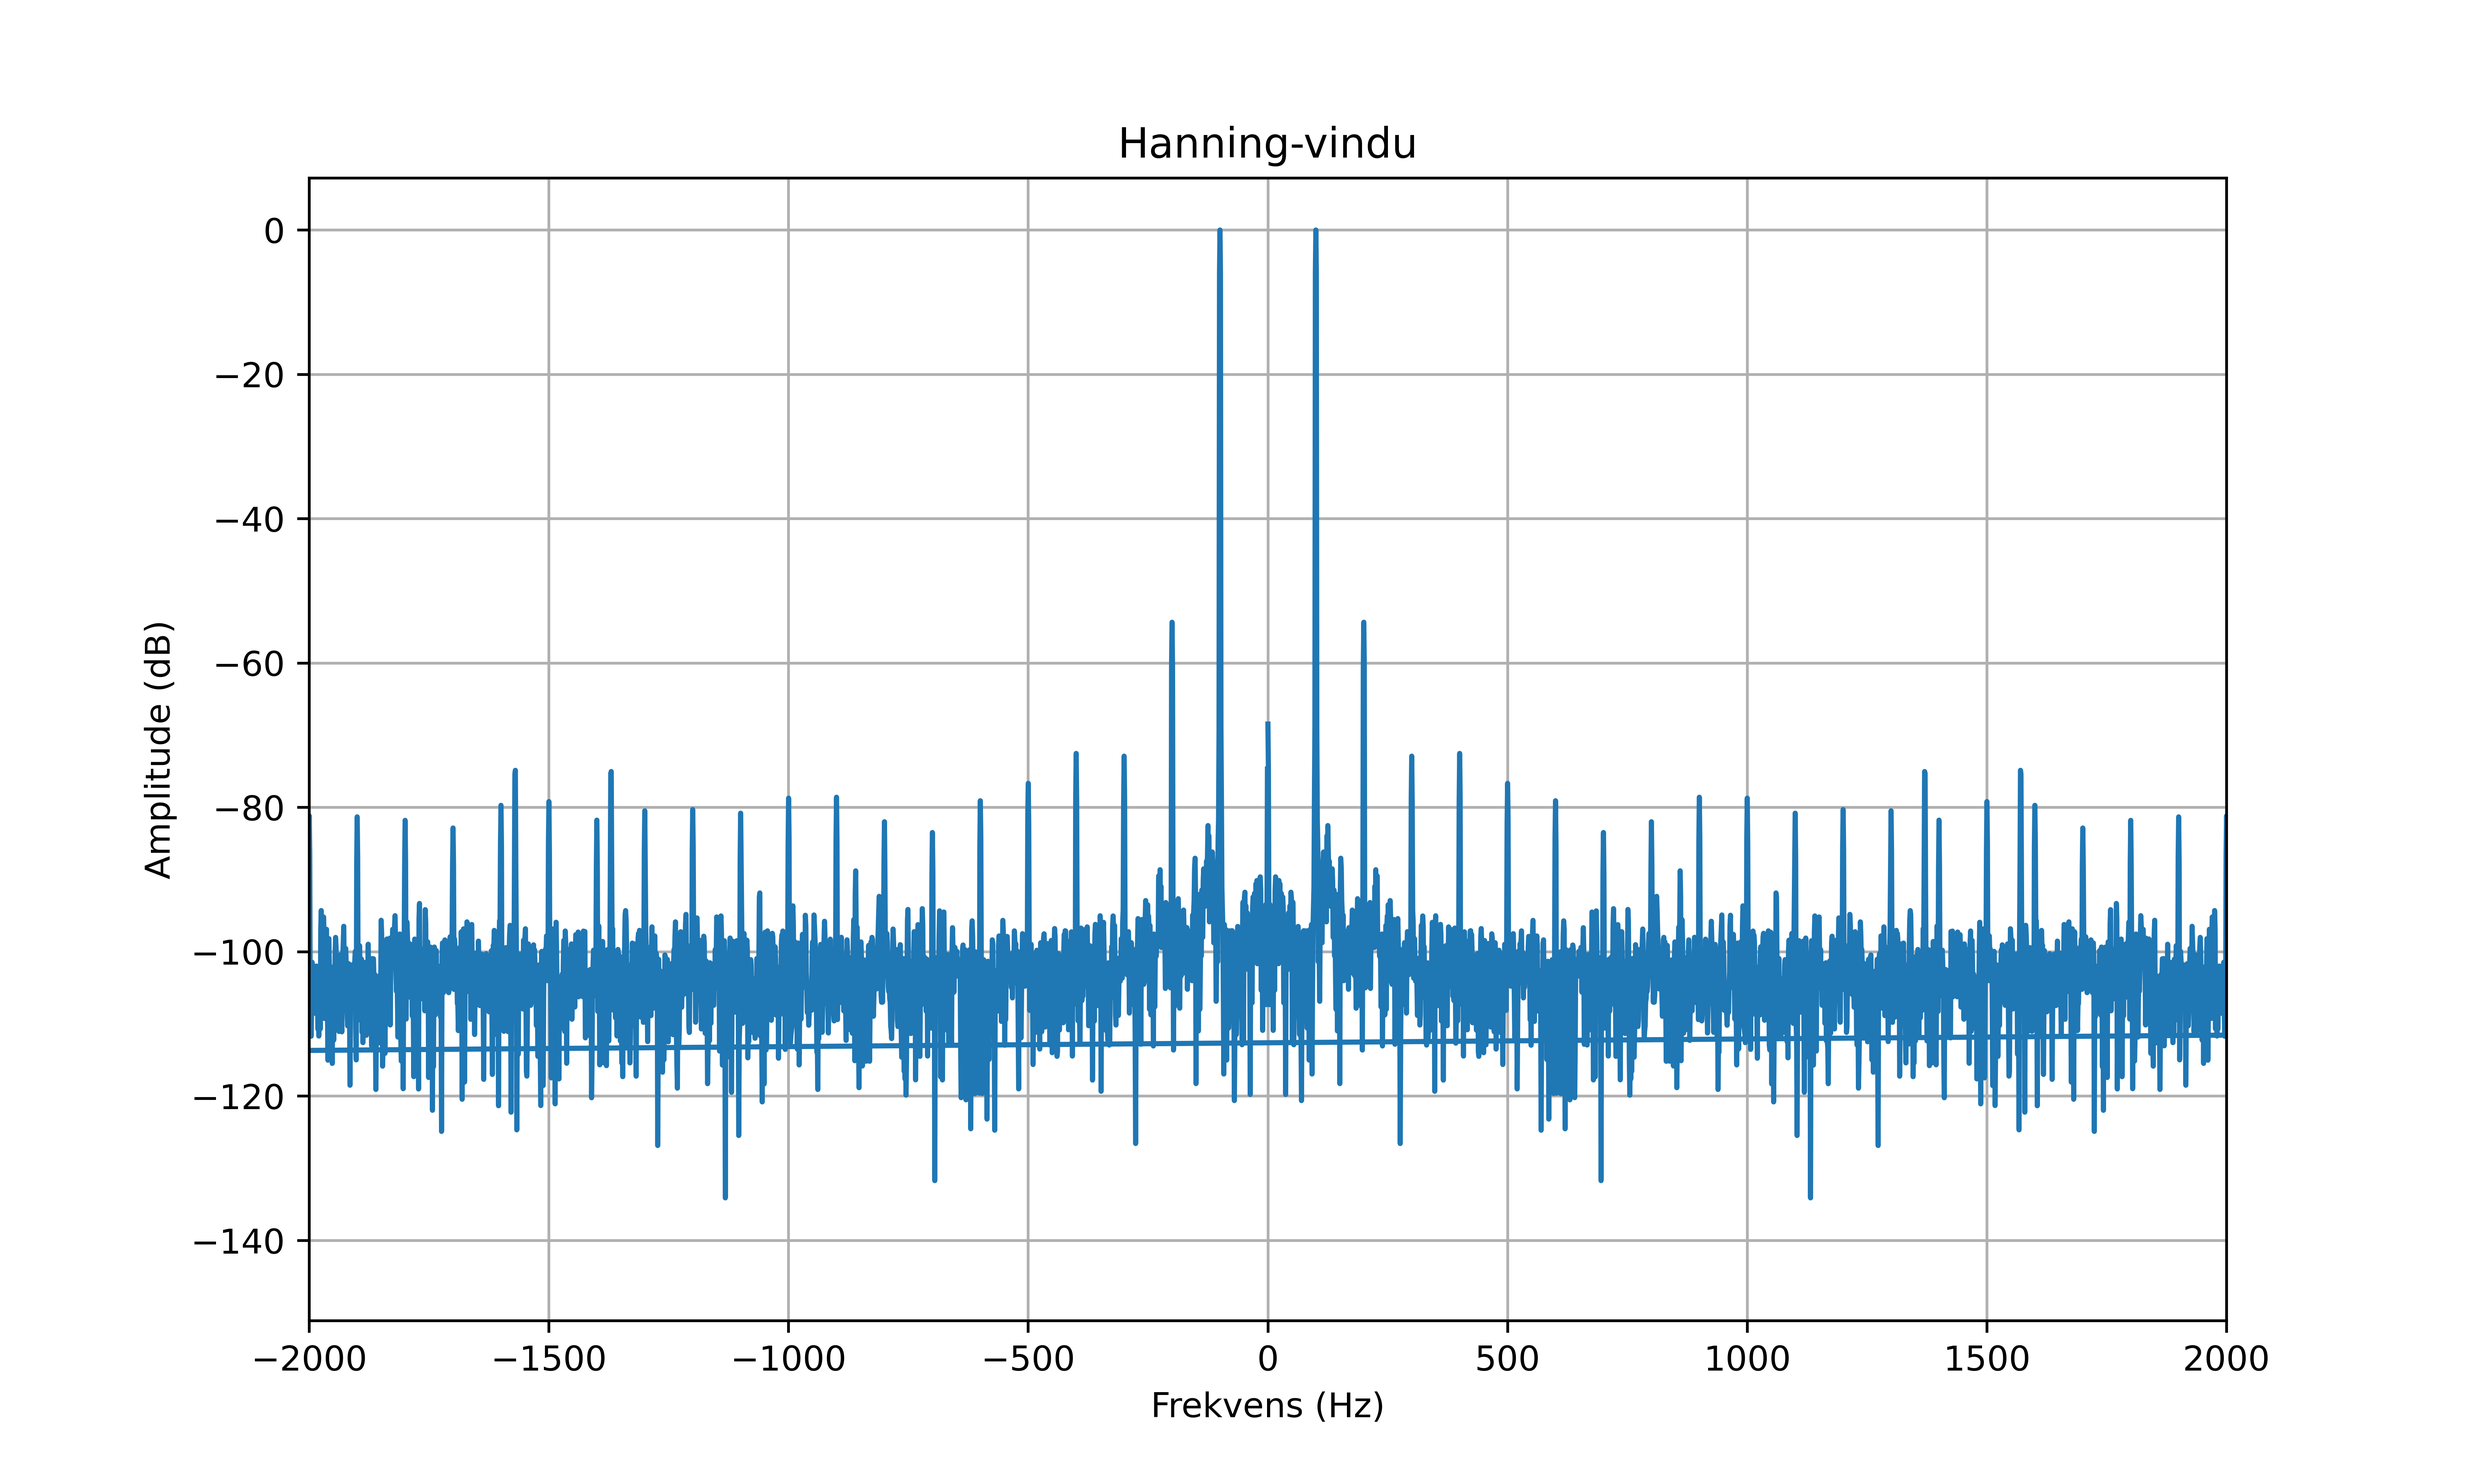
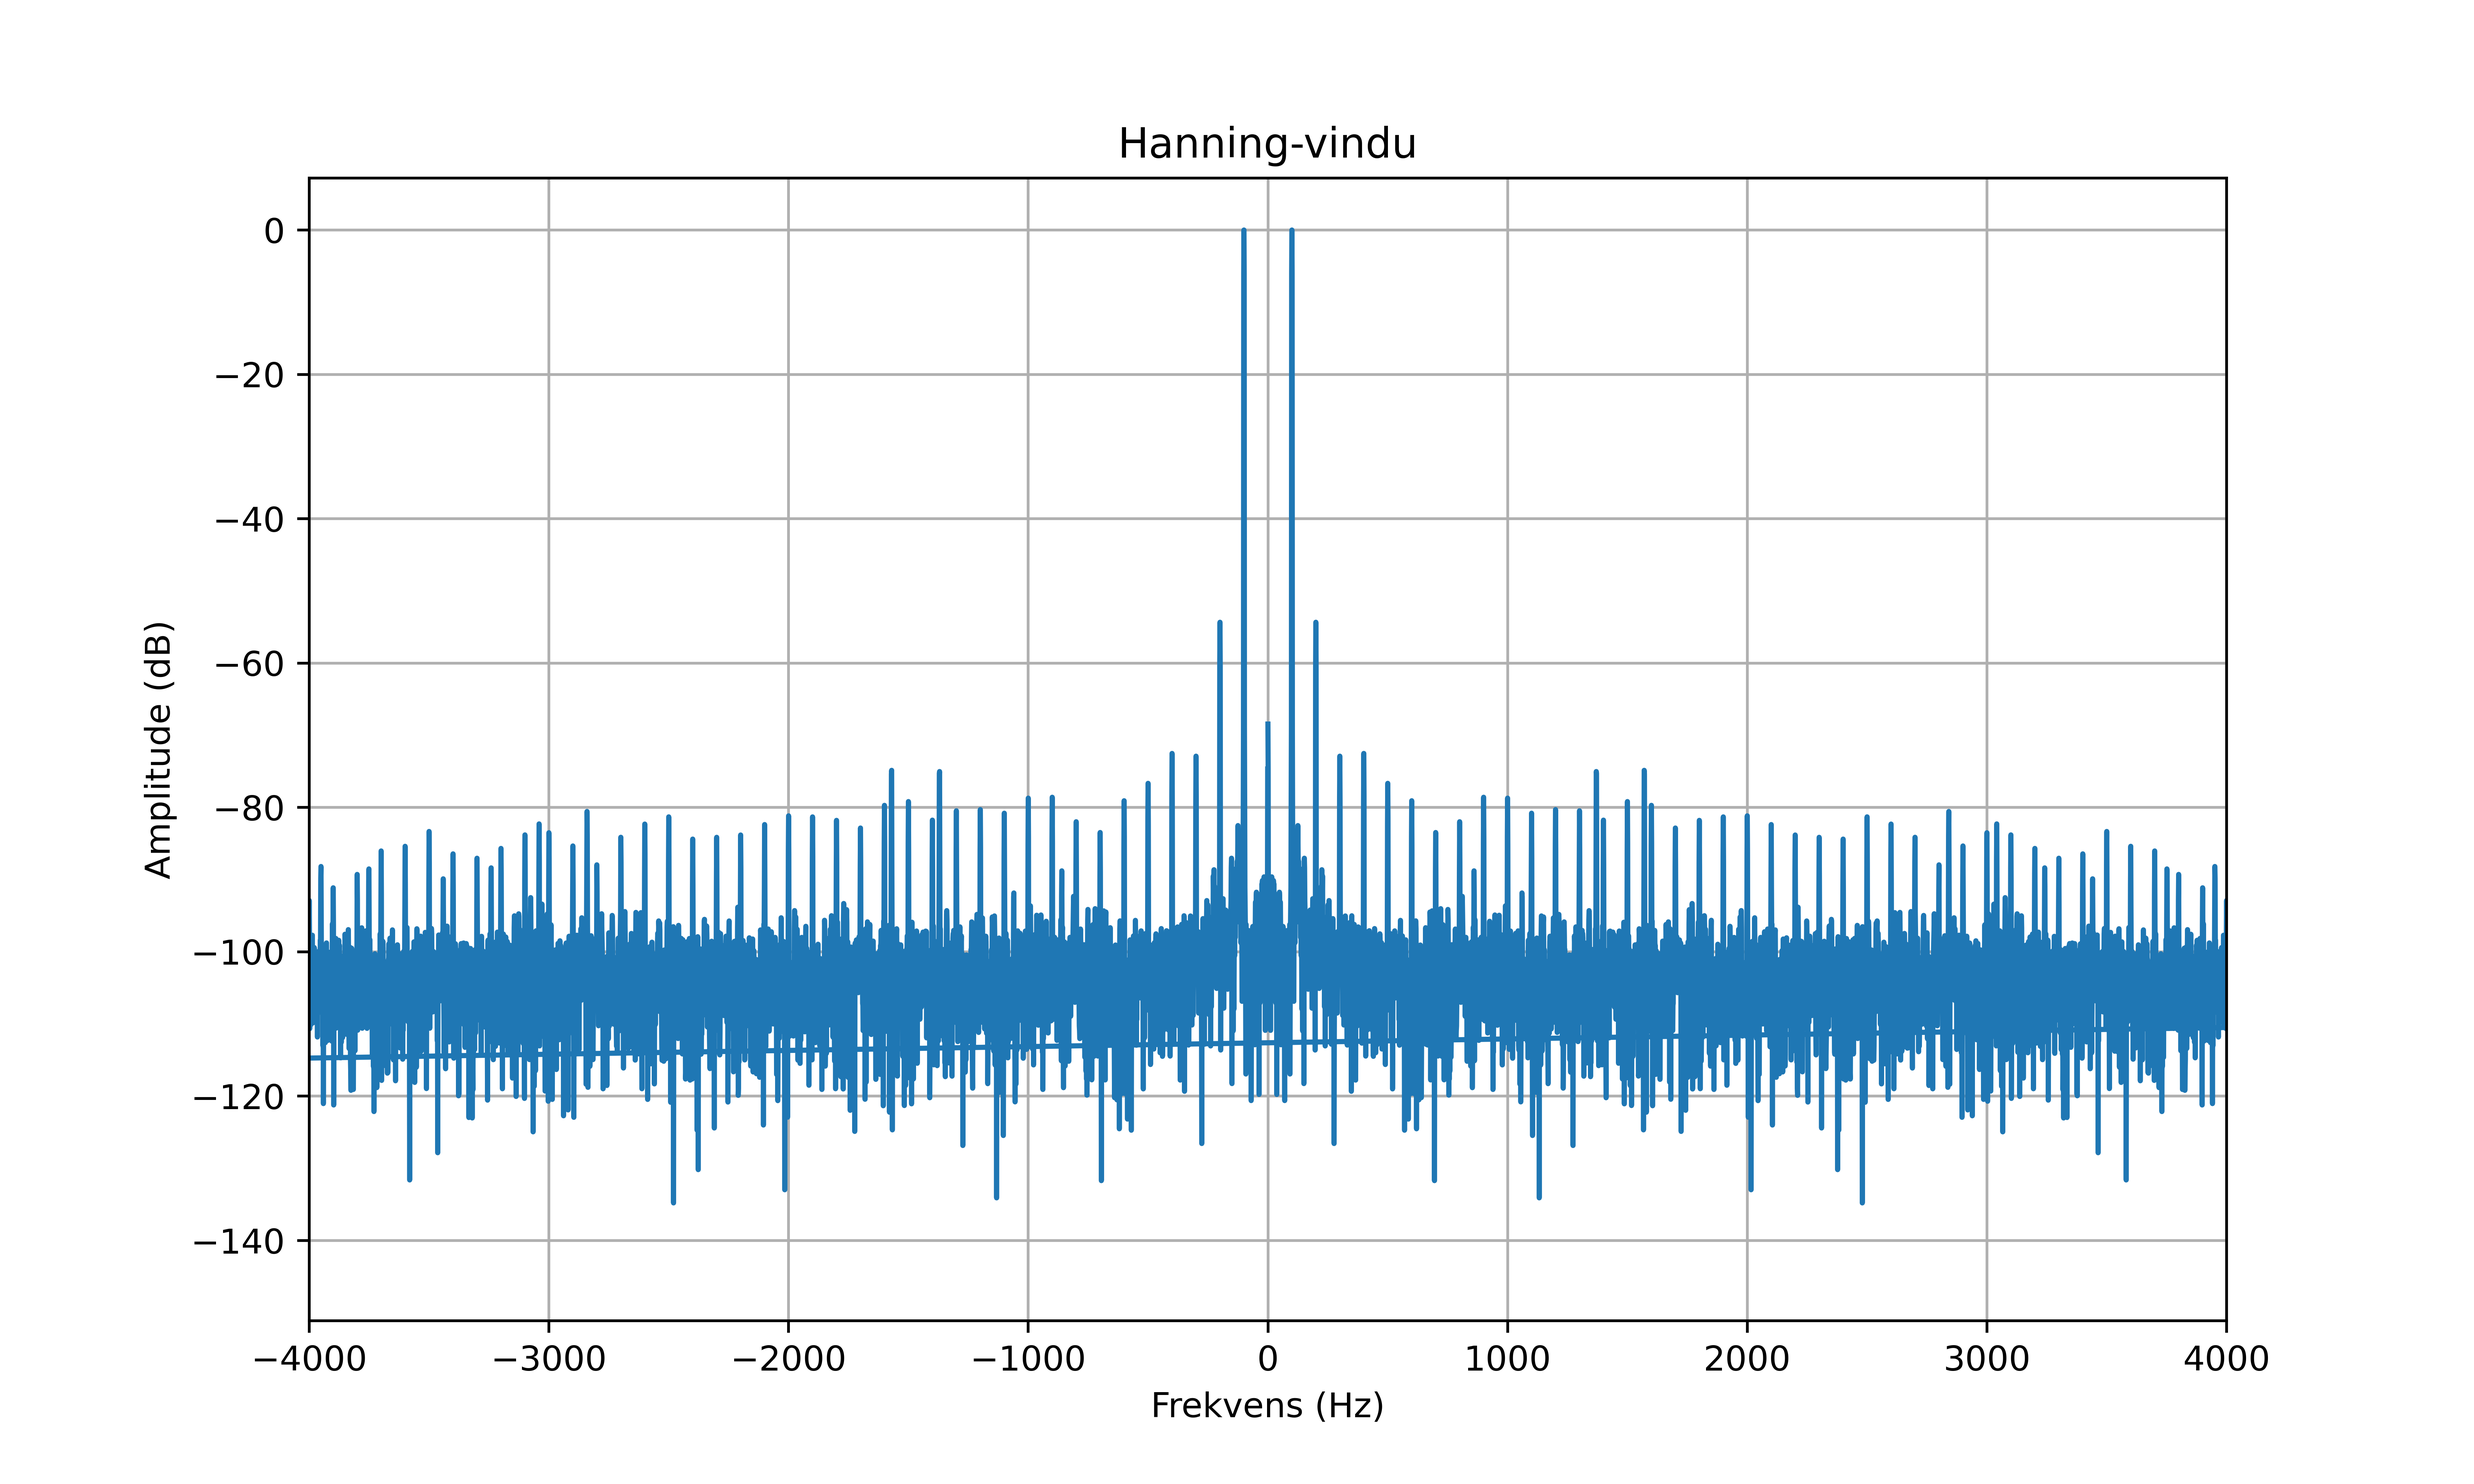
flere vindusfunksjoner

diff --git a/vindusfunksjoner/kaiser_vindu.py b/vindusfunksjoner/kaiser_vindu.py
@@ -19,8 +19,7 @@ signal -= np.mean(signal)
 
 sampling_rate = 1 / sample_period
 
-# Kaiser-vindu med beta = 8.6
-beta = 8.6
+beta = 1
 window = windows.kaiser(len(signal), beta)
 
 window_signal = signal * window
@@ -38,8 +37,8 @@ plt.plot(frekvenser, magnitude_db_normalisert, label='Kaiser-vindu')
 plt.xlabel('Frekvens (Hz)')
 plt.ylabel('Amplitude (dB)')
 #plt.legend()
-plt.xlim(-2000, 2000)
-plt.title('Frekvensspektrum med Kaiser-vindu')
+plt.xlim(-4000, 4000)
+plt.title('Kaiser-vindu')
 plt.grid()
 plt.savefig('Frekvensspektrum_Kaiser.png', dpi=700)
 plt.show()

diff --git a/vindusfunksjoner/hanning_zero.py b/vindusfunksjoner/hanning_zero.py
@@ -45,8 +45,8 @@ plt.figure(figsize=(10, 6))
 plt.plot(frekvenser, magnitude_db_normalisert, label='ADC 1 med Hanning-vindu + Zero-padding')
 plt.xlabel('Frekvens (Hz)')
 plt.ylabel('Amplitude (dB)')
-plt.xlim(-2000, 2000)  
-plt.title('Frekvensspektrum med Hanning-vindu og Zero-padding')
+plt.xlim(-4000, 4000)  
+plt.title('Hanning-vindu med zero-padding')
 plt.grid()
-plt.savefig('Frekvensspektrum_Hanning_ZeroPadding.png', dpi=700)
-plt.show()
+plt.savefig('Hanning_ZeroPadding.png', dpi=700)
+#plt.show()

diff --git a/vindusfunksjoner/kaiser_zero.py b/vindusfunksjoner/kaiser_zero.py
@@ -20,7 +20,7 @@ signal -= np.mean(signal)
 sampling_rate = 1 / sample_period
 
 # Kaiser-vindu med beta = 8.6
-beta = 8.6
+beta = 1
 window = windows.kaiser(len(signal), beta)
 
 # Bruk vinduet
@@ -46,8 +46,8 @@ plt.plot(frekvenser, magnitude_db_normalisert)
 plt.xlabel('Frekvens (Hz)')
 plt.ylabel('Amplitude (dB)')
 plt.legend()
-plt.xlim(-2000, 2000)
+plt.xlim(-4000, 4000)
 plt.title('Kaiser-vindu med zero-padding')
 plt.grid()
 plt.savefig('Kaiser_ZeroPadding.png', dpi=700)
-plt.show()
+#plt.show()

diff --git a/vindusfunksjoner/hanning_vindu.py b/vindusfunksjoner/hanning_vindu.py
@@ -38,11 +38,11 @@ plt.plot(frekvenser, magnitude_db_normalisert, label='ADC 1 med Hanning-vindu')
 plt.xlabel('Frekvens (Hz)')
 plt.ylabel('Amplitude (dB)')
 #plt.legend()
-plt.xlim(-2000, 2000) 
+plt.xlim(-4000, 4000) 
 plt.title('Hanning-vindu')
 plt.grid()
 plt.savefig('Frekvensspektrum_Hanning.png', dpi=700)
-plt.show()
+#plt.show()
 
 
 
